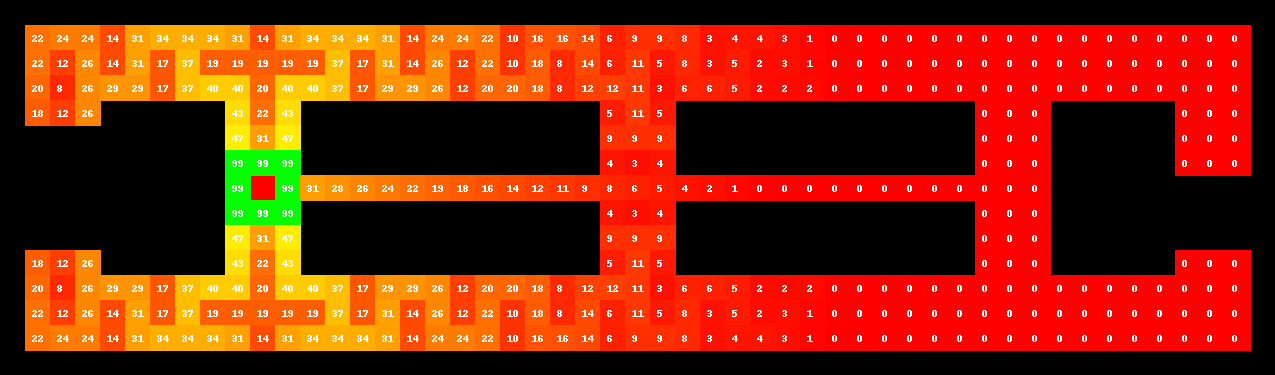
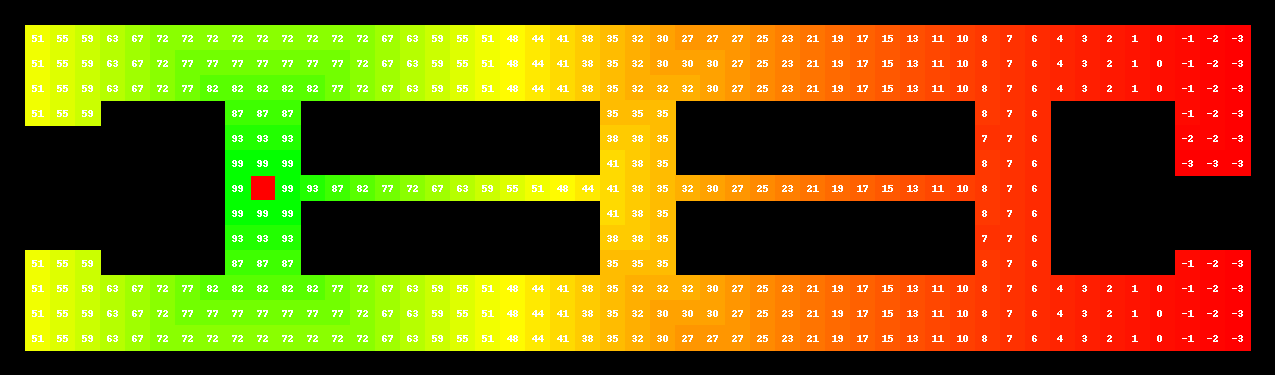
feature: value iteration complete

diff --git a/week4/programming/map.py b/week4/programming/map.py
@@ -1,7 +1,7 @@
 import colorsys
 import sys
 from collections import defaultdict
-from typing import List, Tuple
+from typing import List, Optional, Tuple
 
 import numpy as np
 from PIL import Image, ImageDraw, ImageFont
@@ -307,11 +307,17 @@ class Map:
 
         return probabilities
 
-    def policy_evaluation(self, gamma=0.95, theta=1e-3):
+    def policy_evaluation(
+        self, gamma=0.95, theta=1e-3, max_iterations: Optional[int] = None
+    ):
         # First we calculate the value map for the given policy
         delta = theta + 1
+        iteration = 0
         while delta > theta:
             delta = 0
+            if max_iterations is not None and iteration >= max_iterations:
+                break
+            iteration += 1
 
             for y, row in enumerate(self.map):
                 for x, cell in enumerate(row):
@@ -360,7 +366,9 @@ class Map:
                     # See if our delta is the largest delta for this iteration
                     delta = max(delta, abs(old_value - value))
 
-    def policy_iteration(self, method: str, gamma=0.95, theta=1e-3):
+    def policy_iteration(
+        self, method: str, gamma=0.95, theta=1e-3, max_iterations: Optional[int] = None
+    ):
         if method not in METHODS:
             raise Exception(f"Invalid method chosen - must be one of: {METHODS}")
 
@@ -382,7 +390,7 @@ class Map:
             policy_stable = True
 
             # Update our value map with our current policy
-            self.policy_evaluation(gamma, theta)
+            self.policy_evaluation(gamma, theta, max_iterations)
 
             # Now we do policy improvement
             for y, row in enumerate(self.map):
@@ -399,89 +407,36 @@ class Map:
                     if old_policy != self.policy_map[xy]:
                         changed += 1
 
+        print(iteration)
+
     def value_iteration(self, method: str, gamma: float = 0.95, theta: float = 1e-8):
-        if method not in METHODS:
-            raise Exception(f"Invalid method chosen - must be one of: {METHODS}")
-
-        # Reset our maps prior to calculating
-        self.reset()
-        iteration = 0
-
-        delta = theta + 1
-        while delta > theta:
-            delta = 0
-            iteration += 1
-            print(
-                f"Iteration: {iteration}",
-                end="\r",
-                flush=True,
-            )
-
-            for y, row in enumerate(self.map):
-                for x, cell in enumerate(row):
-                    # Skip obstacles
-                    if cell == OBSTACLE:
-                        continue
-
-                    xy = (x, y)
-
-                    if xy == self.goal:
-                        continue
-
-                    old_value = self.value_map[xy]
-
-                    # Get our neighbors, the probability of choosing them
-                    # via our policy, and the rewards from each possible
-                    # neighbor
-                    neighbors = self.get_neighbors(xy)
-                    probability = self.generate_move_probabilities(xy, method)
-                    rewards = self.get_rewards(xy)
-
-                    # Calculate value by iterating over each and calculating
-                    # the new values
-                    value = -sys.maxsize
-                    for index, neighbor in enumerate(neighbors):
-                        # Ignore out of bounds neighbors - they don't exist
-                        # So therefore we do not update their value at all
-                        if self.is_out_of_bounds(neighbor):
-                            continue
-                        # You can't move to an obstacle state, so it has no value
-                        # but if you do choose to try you take the obstacle
-                        # penalty - therefore we do add its probability *
-                        # the penalty as part of the reward for this state given
-                        # our policy atm
-                        if self.is_obstacle(neighbor):
-                            value = max(value, probability[index] * rewards[index])
-                        else:
-                            value = max(
-                                value,
-                                probability[index]
-                                * (rewards[index] + gamma * self.value_map[neighbor]),
-                            )
-
-                    # Assign the new value
-                    self.value_map[xy] = value
-                    # See if our delta is the largest delta for this iteration
-                    delta = max(delta, abs(old_value - value))
+        """
+        value_iteration - value iteration is an approach to policy iteration where we
+            immediately halt policy evaluation after the first step. This approach
+            forces policy iteration to ultimately converge quicker.
+        """
+        self.policy_iteration(method, gamma, theta, max_iterations=1)
 
 
 if __name__ == "__main__":
     map = Map()
 
-    # map.draw().save("./imgs/map.png")
+    map.draw().save("./imgs/map.png")
 
-    # print("Policy iteration for determinstic policy:")
-    # map.policy_iteration(DETERMINISTIC)
-    # map.draw_value_map().save("./imgs/policy_iteration_value_map_deterministic.png")
-    # map.draw_policy_map().save("./imgs/polciy_iteration_policy_map_deterministic.png")
+    print("Policy iteration for determinstic policy:")
+    map.policy_iteration(DETERMINISTIC)
+    map.draw_value_map().save("./imgs/policy_iteration_value_map_deterministic.png")
+    map.draw_policy_map().save("./imgs/polciy_iteration_policy_map_deterministic.png")
 
-    # print("Policy iteration for stochastic policy:")
-    # map.policy_iteration(STOCHASTIC)
-    # map.draw_value_map().save("./imgs/policy_iteration_value_map_stochastic.png")
-    # map.draw_policy_map().save("./imgs/polciy_iteration_policy_map_stochastic.png")
+    print("Policy iteration for stochastic policy:")
+    map.policy_iteration(STOCHASTIC)
+    map.draw_value_map().save("./imgs/policy_iteration_value_map_stochastic.png")
+    map.draw_policy_map().save("./imgs/polciy_iteration_policy_map_stochastic.png")
 
     map.value_iteration(DETERMINISTIC)
     map.draw_value_map().save("./imgs/value_iteration_value_map_deterministic.png")
+    map.draw_policy_map().save("./imgs/value_iteration_policy_map_deterministic.png")
 
     map.value_iteration(STOCHASTIC)
     map.draw_value_map().save("./imgs/value_iteration_value_map_stochastic.png")
+    map.draw_policy_map().save("./imgs/value_iteration_policy_map_stochastic.png")
